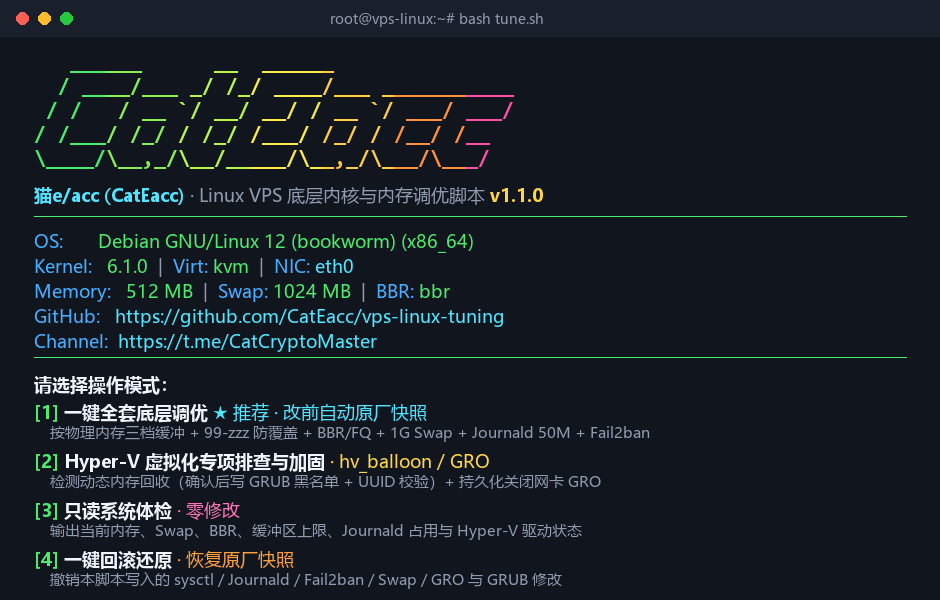
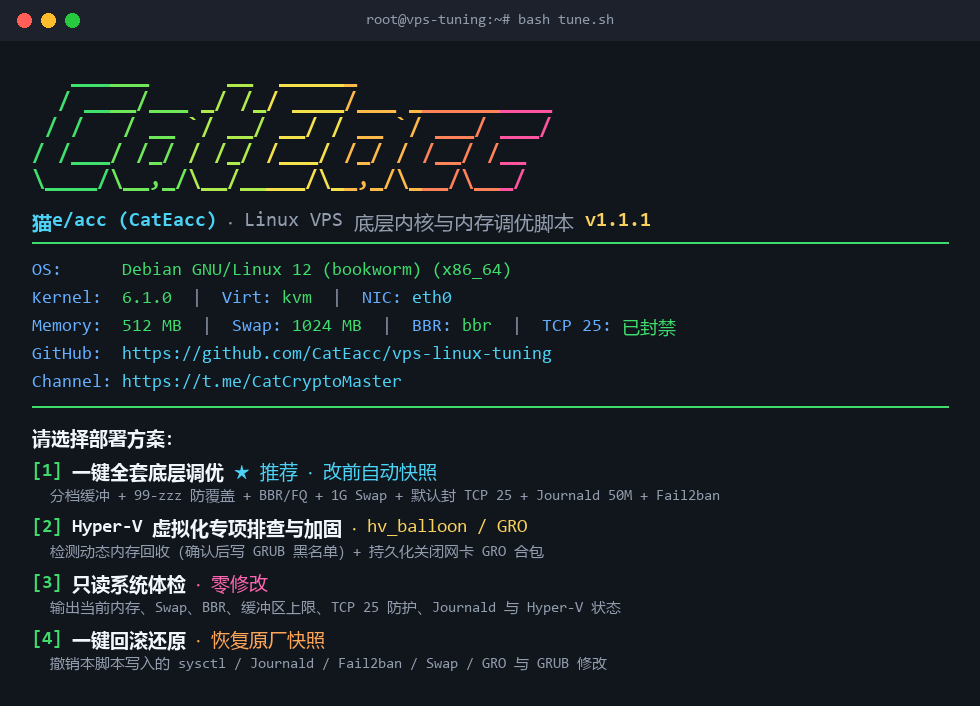
fix: add smtp-guard TCP 25 block, safe swapon/GRUB rollback, dev NIC parser & menu screenshot

Changed region(s): [[0.0309, 0.12, 0.9564, 0.99], [0.3702, 0.0, 0.617, 0.06], [0.5553, 0.45, 0.7096, 0.48]]

diff --git a/README.md b/README.md
@@ -16,9 +16,11 @@
 bash <(curl -fsSL https://raw.githubusercontent.com/CatEacc/vps-linux-tuning/main/tune.sh)
 ```
 
+![CatEacc vps-linux-tuning 终端菜单](https://raw.githubusercontent.com/CatEacc/vps-linux-tuning/main/tune_menu.png)
+
 ---
 
-## 核心解决的 5 个运维痛点
+## 核心解决的 6 个运维痛点
 
 1. **512M / 1G 小内存防 OOM（按内存分档网络缓冲）**：
    - 不再无脑套用 64MB 缓冲区导致小内存机器并发高时触发 OOM Killer。
@@ -33,6 +35,8 @@ bash <(curl -fsSL https://raw.githubusercontent.com/CatEacc/vps-linux-tuning/mai
    - *注：部分超售 Hyper-V 商家 TOS 可能不允许禁用动态内存驱动，动手前请先确认商家条款。*
 5. **Hyper-V 虚拟网卡 `GRO` 合包异常修复**：
    - 自动识别默认路由网卡名（兼容 `eth0` / `ens3` / `enp0s3` 等），通过 `ethtool -K <IFACE> gro off` 关闭并注册为 `nic-gro-off.service` 开机自启。
+6. **主机级默认封禁出站 `TCP 25`（防恶意发信拖黑 IP）**：
+   - 使用独立 `nftables` 表（`table inet smtp_guard`）与 `smtp-guard.service` 开机持久化拒绝出站 `TCP 25`（不影响 `465`/`587`/`993` 正常加密收发信，且不影响已有防火墙表）。
 
 ---
 
